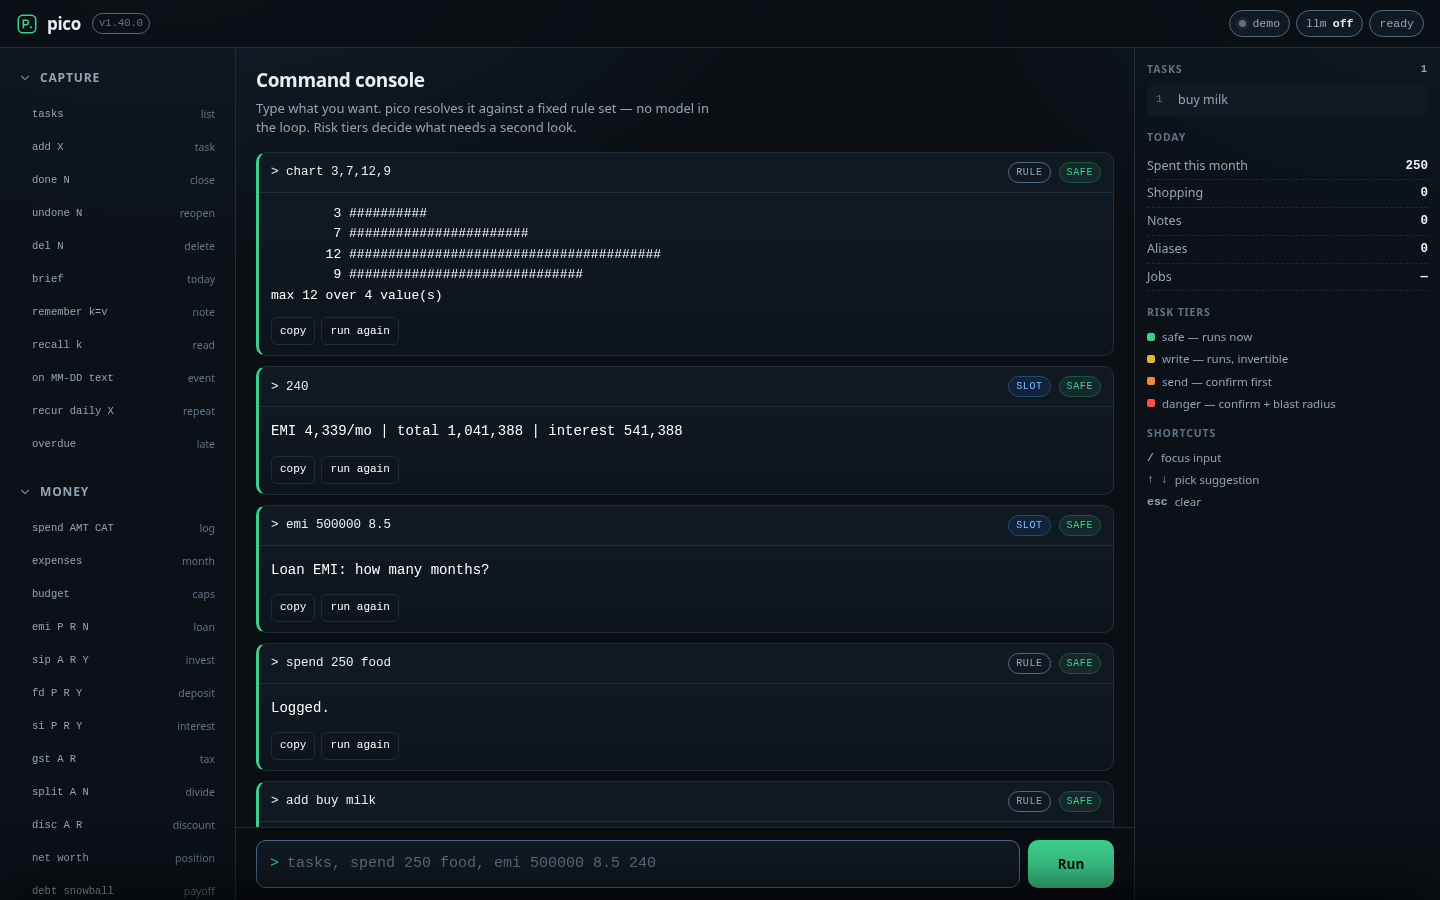
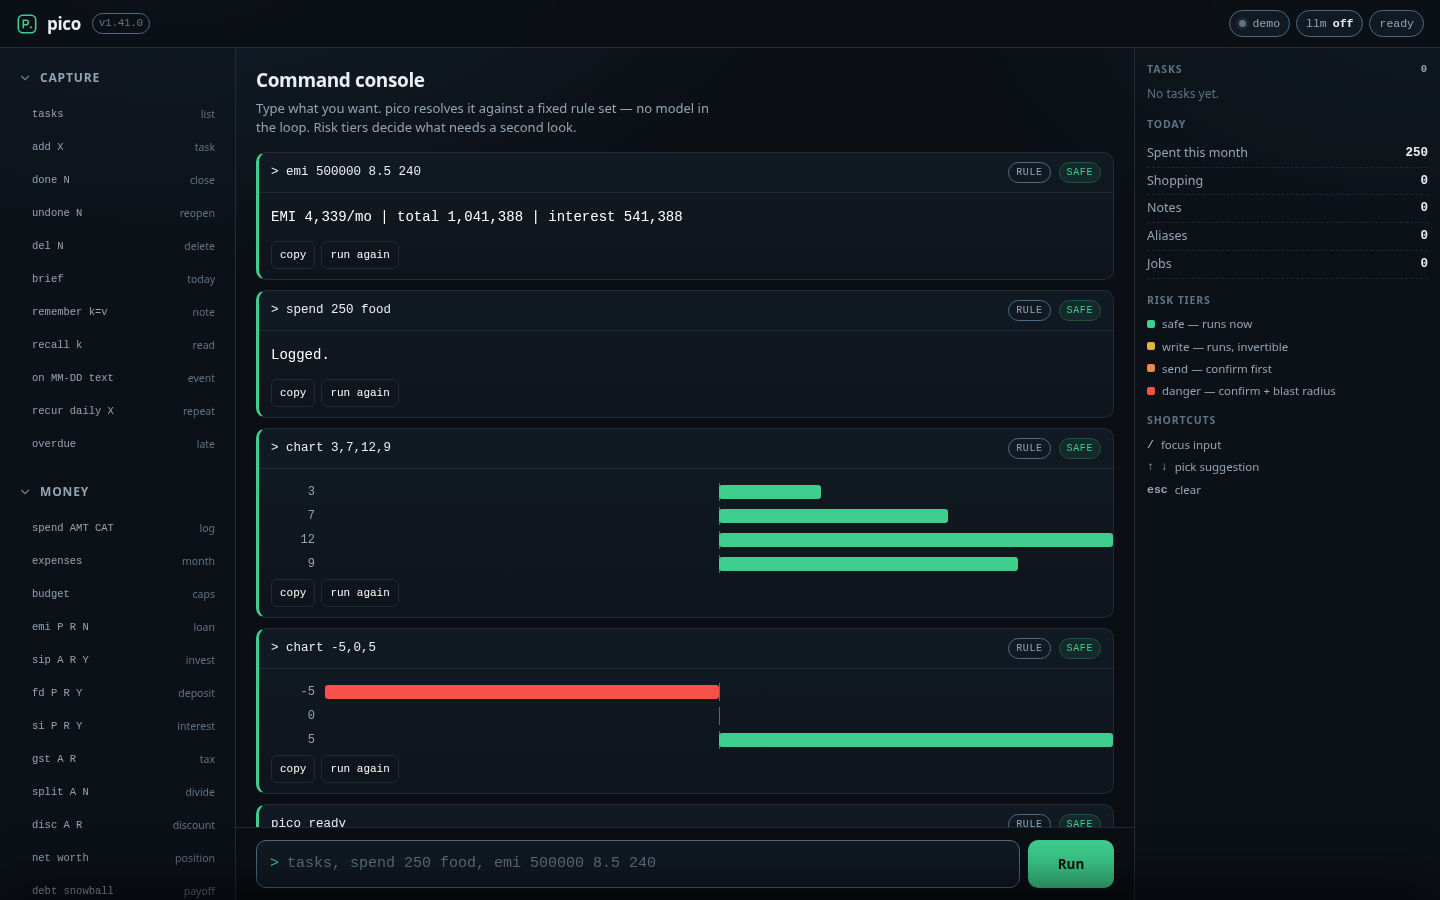
pico 1.42.0 — the console critique: charts, sign, zero, and a fake footer
chart was drawn in hashes, which reads as a rendering bug in a browser and was the
most eye-catching thing on the page. A chart answer now paints as bars; the answer
text is unchanged, so the parity gate compares the same string.

Negatives were distinguished by colour alone: -5 and 5 drew the same length, one red
one green. Bars now grow from a zero axis — sign is a direction, not a colour.

A zero drew a two-pixel bar; it now draws only the axis. The boot message had copy
and 'run again' buttons for a command that was never typed; the footer is gone when
there is no command.

Also: right-rail figures use tabular numerals, and Jobs shows 0 like its neighbours
instead of an em dash.

481 tests unchanged; parity, contrast and asset sync all still pass, which is what a
presentation-only change should look like.

diff --git a/docs/app.html b/docs/app.html
@@ -169,6 +169,16 @@ button{background:none;border:0;cursor:pointer;text-align:left}
 .b-write{color:var(--write);border-color:#5c4a15;background:rgba(227,179,65,.09)}
 .b-send{color:var(--send);border-color:#6b3a15;background:rgba(240,136,62,.1)}
 .b-danger{color:var(--danger);border-color:#6e2a26;background:rgba(248,81,73,.1)}
+.chart{display:flex;flex-direction:column;gap:6px;padding:14px 0 6px}
+.barrow{display:flex;align-items:center;gap:10px}
+.barlabel{font-family:var(--mono);font-size:12px;color:var(--tx2);width:56px;
+  text-align:right;flex:none;font-variant-numeric:tabular-nums}
+.bartrack{position:relative;flex:1;height:14px}
+.bartrack::before{content:"";position:absolute;left:50%;top:-2px;bottom:-2px;width:1px;
+  background:var(--line2)}
+.bar{position:absolute;top:0;height:14px;border-radius:3px;background:var(--acc);
+  min-width:2px}
+.bar.neg{background:var(--danger)}
 .out{font-family:var(--mono);font-size:13px;line-height:1.58;white-space:pre-wrap;word-break:break-word;
   padding:11px 12px;color:var(--tx);max-height:44vh;overflow:auto}
 .out.short{font-size:14px;padding:13px 12px}
@@ -199,7 +209,7 @@ button{background:none;border:0;cursor:pointer;text-align:left}
   padding:5px 8px;border-radius:6px;background:var(--panel);border:1px solid transparent}
 .row.done{opacity:.5;text-decoration:line-through}
 .row .n{color:var(--tx3);font-family:var(--mono);font-size:11px;flex:none;min-width:14px}
-.kv{display:flex;justify-content:space-between;font-size:12.5px;padding:4px 0;color:var(--tx2);
+.kv{font-variant-numeric:tabular-nums;display:flex;justify-content:space-between;font-size:12.5px;padding:4px 0;color:var(--tx2);
   border-bottom:1px dashed rgba(43,61,77,.55)}
 .kv b{color:var(--tx);font-family:var(--mono);font-weight:600}
 .muted{color:var(--tx3);font-size:12px}
@@ -246,7 +256,7 @@ pre,pre *{color:#ffffff!important}
   <header class="top">
     <div class="brand">
       <svg viewBox="0 0 24 24" fill="none" aria-hidden="true"><rect x="2.5" y="2.5" width="19" height="19" rx="5" stroke="#3ecf8e" stroke-width="1.7"/><path d="M8 16V8h3.2a2.4 2.4 0 0 1 0 4.8H8" stroke="#3ecf8e" stroke-width="1.7" stroke-linecap="round"/><circle cx="16.2" cy="15.6" r="1.2" fill="#3ecf8e"/></svg>
-      pico <small id="ver">v1.41.0</small>
+      pico <small id="ver">v1.42.0</small>
     </div>
     <div class="chips">
       <span class="chip"><i class="dot" id="dot"></i><span id="mode">engine</span></span>
@@ -1003,6 +1013,28 @@ const esc=s=>String(s).replace(/[&<>]/g,c=>({"&":"&amp;","<":"&lt;",">":"&gt;"}[
 const stream=$("#stream"), histEl=$("#hist");
 let pendingConfirm=null, pendingChoice=null, history=[];
 
+/* A web console should not draw a bar chart in hashes. The answer text is still
+   produced by the same code and still compared by the parity gate; this only
+   changes how a `chart` answer is painted. */
+function chartBlock(cmd, out){
+  if(!/^chart\s/i.test(cmd||""))return "";
+  const nums=(cmd.match(/-?[\d.]+/g)||[]).map(Number).filter(n=>!isNaN(n));
+  if(nums.length<2||nums.length>40)return "";
+  const top=Math.max(...nums.map(Math.abs))||1;
+  // negatives grow left from a zero axis, so the sign is a direction and not only a
+  // colour — colour alone must never carry meaning
+  const bars=nums.map(n=>{
+    if(n===0)return `<div class="barrow"><span class="barlabel">0</span>`+
+      `<span class="bartrack"></span></div>`;
+    const w=Math.max(2,Math.round(Math.abs(n)/top*50));
+    const left=n<0?`${50-w}%`:"50%";
+    return `<div class="barrow"><span class="barlabel">${esc(String(n))}</span>`+
+           `<span class="bartrack"><span class="bar ${n<0?"neg":""}" `+
+           `style="left:${left};width:${w}%"></span></span></div>`;
+  }).join("");
+  return `<div class="chart">${bars}</div>`;
+}
+
 function render(cmd,src,tier,out,typed){
   const el=document.createElement("article");
   el.className="card"; el.dataset.tier=tier;
@@ -1011,17 +1043,19 @@ function render(cmd,src,tier,out,typed){
       ${src?`<span class="badge b-${esc(src)}">${esc(src)}</span>`:""}
       <span class="badge b-${esc(tier)}">${esc(tier)}</span>
     </div>
-    <pre class="out${out.indexOf("\n")===-1?" short":""}">${esc(out)}</pre>
-    <div class="foot">
+    ${chartBlock(cmd, out)||`<pre class="out${out.indexOf("\n")===-1?" short":""}">${esc(out)}</pre>`}
+    ${cmd?`<div class="foot">
       <button class="mini" data-copy>copy</button>
       <button class="mini" data-again="${esc(cmd)}">run again</button>
       ${tier!=="safe"?`<button class="mini" data-dry="${esc(cmd)}">dry run</button>`:""}
-    </div>`;
+    </div>`:""}`;
   stream.prepend(el);
   while(stream.children.length>25)stream.lastChild.remove();
   history.unshift({cmd:typed||cmd,t:new Date()});
   renderHistory();
-  el.querySelector("[data-copy]").onclick=e=>{
+  const copyBtn=el.querySelector("[data-copy]");
+  if(!copyBtn)return;              // the boot message has no footer
+  copyBtn.onclick=e=>{
     navigator.clipboard.writeText(out).then(()=>{e.target.textContent="copied";
       setTimeout(()=>e.target.textContent="copy",1200);});
   };
@@ -1064,7 +1098,7 @@ function applyState(st){
   $("#pShop").textContent=(st.shop||[]).length;
   $("#pNotes").textContent=(st.notes||[]).length;
   $("#pAlias").textContent=st.aliases||0;
-  $("#pJobs").textContent=(st.jobs||[]).length||"—";
+  $("#pJobs").textContent=(st.jobs||[]).length;
 }
 function renderPanels(){
   applyState({tasks:S.tasks,spend:S.spend,shop:S.shop,notes:Object.keys(S.notes),
@@ -1214,7 +1248,7 @@ document.querySelectorAll(".tabs button").forEach(b=>{
 if(window.innerWidth<760){
   $("#cmd").placeholder="tasks · spend 250 food";
 }
-$("#ver").textContent="v1.41.0";
+$("#ver").textContent="v1.42.0";
 $("#mode").textContent=SERVER?"engine":"demo";
 $("#dot").className=SERVER?"dot":"dot off";
 if(SERVER){

diff --git a/web/index.html b/web/index.html
@@ -169,6 +169,16 @@ button{background:none;border:0;cursor:pointer;text-align:left}
 .b-write{color:var(--write);border-color:#5c4a15;background:rgba(227,179,65,.09)}
 .b-send{color:var(--send);border-color:#6b3a15;background:rgba(240,136,62,.1)}
 .b-danger{color:var(--danger);border-color:#6e2a26;background:rgba(248,81,73,.1)}
+.chart{display:flex;flex-direction:column;gap:6px;padding:14px 0 6px}
+.barrow{display:flex;align-items:center;gap:10px}
+.barlabel{font-family:var(--mono);font-size:12px;color:var(--tx2);width:56px;
+  text-align:right;flex:none;font-variant-numeric:tabular-nums}
+.bartrack{position:relative;flex:1;height:14px}
+.bartrack::before{content:"";position:absolute;left:50%;top:-2px;bottom:-2px;width:1px;
+  background:var(--line2)}
+.bar{position:absolute;top:0;height:14px;border-radius:3px;background:var(--acc);
+  min-width:2px}
+.bar.neg{background:var(--danger)}
 .out{font-family:var(--mono);font-size:13px;line-height:1.58;white-space:pre-wrap;word-break:break-word;
   padding:11px 12px;color:var(--tx);max-height:44vh;overflow:auto}
 .out.short{font-size:14px;padding:13px 12px}
@@ -199,7 +209,7 @@ button{background:none;border:0;cursor:pointer;text-align:left}
   padding:5px 8px;border-radius:6px;background:var(--panel);border:1px solid transparent}
 .row.done{opacity:.5;text-decoration:line-through}
 .row .n{color:var(--tx3);font-family:var(--mono);font-size:11px;flex:none;min-width:14px}
-.kv{display:flex;justify-content:space-between;font-size:12.5px;padding:4px 0;color:var(--tx2);
+.kv{font-variant-numeric:tabular-nums;display:flex;justify-content:space-between;font-size:12.5px;padding:4px 0;color:var(--tx2);
   border-bottom:1px dashed rgba(43,61,77,.55)}
 .kv b{color:var(--tx);font-family:var(--mono);font-weight:600}
 .muted{color:var(--tx3);font-size:12px}
@@ -246,7 +256,7 @@ pre,pre *{color:#ffffff!important}
   <header class="top">
     <div class="brand">
       <svg viewBox="0 0 24 24" fill="none" aria-hidden="true"><rect x="2.5" y="2.5" width="19" height="19" rx="5" stroke="#3ecf8e" stroke-width="1.7"/><path d="M8 16V8h3.2a2.4 2.4 0 0 1 0 4.8H8" stroke="#3ecf8e" stroke-width="1.7" stroke-linecap="round"/><circle cx="16.2" cy="15.6" r="1.2" fill="#3ecf8e"/></svg>
-      pico <small id="ver">v1.41.0</small>
+      pico <small id="ver">v1.42.0</small>
     </div>
     <div class="chips">
       <span class="chip"><i class="dot" id="dot"></i><span id="mode">engine</span></span>
@@ -1003,6 +1013,28 @@ const esc=s=>String(s).replace(/[&<>]/g,c=>({"&":"&amp;","<":"&lt;",">":"&gt;"}[
 const stream=$("#stream"), histEl=$("#hist");
 let pendingConfirm=null, pendingChoice=null, history=[];
 
+/* A web console should not draw a bar chart in hashes. The answer text is still
+   produced by the same code and still compared by the parity gate; this only
+   changes how a `chart` answer is painted. */
+function chartBlock(cmd, out){
+  if(!/^chart\s/i.test(cmd||""))return "";
+  const nums=(cmd.match(/-?[\d.]+/g)||[]).map(Number).filter(n=>!isNaN(n));
+  if(nums.length<2||nums.length>40)return "";
+  const top=Math.max(...nums.map(Math.abs))||1;
+  // negatives grow left from a zero axis, so the sign is a direction and not only a
+  // colour — colour alone must never carry meaning
+  const bars=nums.map(n=>{
+    if(n===0)return `<div class="barrow"><span class="barlabel">0</span>`+
+      `<span class="bartrack"></span></div>`;
+    const w=Math.max(2,Math.round(Math.abs(n)/top*50));
+    const left=n<0?`${50-w}%`:"50%";
+    return `<div class="barrow"><span class="barlabel">${esc(String(n))}</span>`+
+           `<span class="bartrack"><span class="bar ${n<0?"neg":""}" `+
+           `style="left:${left};width:${w}%"></span></span></div>`;
+  }).join("");
+  return `<div class="chart">${bars}</div>`;
+}
+
 function render(cmd,src,tier,out,typed){
   const el=document.createElement("article");
   el.className="card"; el.dataset.tier=tier;
@@ -1011,17 +1043,19 @@ function render(cmd,src,tier,out,typed){
       ${src?`<span class="badge b-${esc(src)}">${esc(src)}</span>`:""}
       <span class="badge b-${esc(tier)}">${esc(tier)}</span>
     </div>
-    <pre class="out${out.indexOf("\n")===-1?" short":""}">${esc(out)}</pre>
-    <div class="foot">
+    ${chartBlock(cmd, out)||`<pre class="out${out.indexOf("\n")===-1?" short":""}">${esc(out)}</pre>`}
+    ${cmd?`<div class="foot">
       <button class="mini" data-copy>copy</button>
       <button class="mini" data-again="${esc(cmd)}">run again</button>
       ${tier!=="safe"?`<button class="mini" data-dry="${esc(cmd)}">dry run</button>`:""}
-    </div>`;
+    </div>`:""}`;
   stream.prepend(el);
   while(stream.children.length>25)stream.lastChild.remove();
   history.unshift({cmd:typed||cmd,t:new Date()});
   renderHistory();
-  el.querySelector("[data-copy]").onclick=e=>{
+  const copyBtn=el.querySelector("[data-copy]");
+  if(!copyBtn)return;              // the boot message has no footer
+  copyBtn.onclick=e=>{
     navigator.clipboard.writeText(out).then(()=>{e.target.textContent="copied";
       setTimeout(()=>e.target.textContent="copy",1200);});
   };
@@ -1064,7 +1098,7 @@ function applyState(st){
   $("#pShop").textContent=(st.shop||[]).length;
   $("#pNotes").textContent=(st.notes||[]).length;
   $("#pAlias").textContent=st.aliases||0;
-  $("#pJobs").textContent=(st.jobs||[]).length||"—";
+  $("#pJobs").textContent=(st.jobs||[]).length;
 }
 function renderPanels(){
   applyState({tasks:S.tasks,spend:S.spend,shop:S.shop,notes:Object.keys(S.notes),
@@ -1214,7 +1248,7 @@ document.querySelectorAll(".tabs button").forEach(b=>{
 if(window.innerWidth<760){
   $("#cmd").placeholder="tasks · spend 250 food";
 }
-$("#ver").textContent="v1.41.0";
+$("#ver").textContent="v1.42.0";
 $("#mode").textContent=SERVER?"engine":"demo";
 $("#dot").className=SERVER?"dot":"dot off";
 if(SERVER){

diff --git a/docs/index.html b/docs/index.html
@@ -139,7 +139,7 @@ pre,pre *{color:#ffffff!important}
     <img src="assets/badge-tests.svg" alt="tests: 481 passed">
     <img src="assets/badge-deps.svg" alt="dependencies: zero">
     <img src="assets/badge-offline.svg" alt="no network at runtime">
-    <img src="assets/badge-version.svg" alt="version 1.41.0">
+    <img src="assets/badge-version.svg" alt="version 1.42.0">
   </div>
 
   <div class="cta">
@@ -264,7 +264,7 @@ pre,pre *{color:#ffffff!important}
       <tr><td>rules / catalogue / slots</td><td>106 / 110 / 6</td></tr>
       <tr><td>packs</td><td>12</td></tr>
       <tr><td>python source</td><td>171,894 bytes across 29 files</td></tr>
-      <tr><td>console</td><td>70,278 bytes, one HTML file</td></tr>
+      <tr><td>console</td><td>72,112 bytes, one HTML file</td></tr>
       <tr><td>rule-path latency</td><td>0.45 ms read and 1.7 ms write when empty; 1.45 / 9.5 ms at 5,000 tasks</td></tr>
       <tr><td>engine heap</td><td>0.1 MB</td></tr>
       <tr><td>acceptance tests</td><td>481 passing</td></tr>
@@ -361,7 +361,7 @@ python3 ~/pico.py --ui   <span class="c"># local console on 127.0.0.1:8765</span
 </div></section>
 
 <footer><div class="wrap">
-  <span>pico 1.41.0</span>
+  <span>pico 1.42.0</span>
   <span>·</span>
   <a href="app.html">Console</a>
   <a href="https://github.com/drsamonline/pico">Source</a>

diff --git a/docs/sw.js b/docs/sw.js
@@ -1,5 +1,5 @@
 /* pico service worker — cache the shell so the console opens offline. */
-const CACHE = "pico-1.41.0";
+const CACHE = "pico-1.42.0";
 const SHELL = ["./app.html", "./manifest.webmanifest", "./icon-192.png", "./icon-512.png"];
 
 self.addEventListener("install", e => {

diff --git a/web/sw.js b/web/sw.js
@@ -1,5 +1,5 @@
 /* pico service worker — cache the shell so the console opens offline. */
-const CACHE = "pico-1.41.0";
+const CACHE = "pico-1.42.0";
 const SHELL = ["./app.html", "./manifest.webmanifest", "./icon-192.png", "./icon-512.png"];
 
 self.addEventListener("install", e => {

diff --git a/pico/base.py b/pico/base.py
@@ -1,7 +1,7 @@
 """pico base — constants and pure helpers shared by every module."""
 import ast, operator, pathlib, re, sys
 
-__version__ = "1.41.0"
+__version__ = "1.42.0"
 
 
 STATE_DEFAULT = {

diff --git a/README.md b/README.md
@@ -6,7 +6,7 @@
   <img alt="tests: 481 passed" src="docs/assets/badge-tests.svg">
   <img alt="dependencies: zero" src="docs/assets/badge-deps.svg">
   <img alt="no network at runtime" src="docs/assets/badge-offline.svg">
-  <img alt="version 1.41.0" src="docs/assets/badge-version.svg">
+  <img alt="version 1.42.0" src="docs/assets/badge-version.svg">
 </p>
 
 **A personal automation engine that runs on the Python standard library alone.**
@@ -98,8 +98,8 @@ Full reference with argument shapes: [`docs/COMMANDS.md`](docs/COMMANDS.md).
 | rules / catalogue / slot rules | 114 / 122 / 6 |
 | packs | 12 |
 | python source | 171,894 bytes across 29 files |
-| package / packs / console | 94,234 / 77,660 / 70,278 B |
-| console | 70,278 bytes, one HTML file, no external assets |
+| package / packs / console | 94,234 / 77,660 / 72,112 B |
+| console | 72,112 bytes, one HTML file, no external assets |
 | rule-path latency (read) | 0.45 ms/call empty, 0.88 ms at 1,200 tasks |
 | rule-path latency (write) | 1.7 ms empty, 2.3 ms at 1,200 tasks |
 | engine heap | 0.1 MB |
@@ -146,7 +146,7 @@ decision.
 | --- | --- | --- | --- |
 | package (`pico/` + launcher, 18 files) | 94,234 B | 103,657 B | 94,234 B |
 | packs (12 files) | 77,660 B | 85,426 B | 77,660 B |
-| console (one HTML file) | 70,278 B | 77,305 B | 70,278 B |
+| console (one HTML file) | 72,112 B | 79,323 B | 72,112 B |
 | rule-path latency | — | 5 ms | 0.45 ms read, 1.7 ms write empty |
 | idle heap | — | 15 MB | 0.1 MB |
 | dependencies | — | 0 | 0 |

diff --git a/PROJECT_OVERVIEW.md b/PROJECT_OVERVIEW.md
@@ -52,7 +52,7 @@ network call at runtime except the one you ask for.
 | rules | 106 |
 | packs | 12 |
 | python source | 171,894 bytes, 29 files |
-| console | 70,278 bytes, one HTML file |
+| console | 72,112 bytes, one HTML file |
 | read latency | 0.71 ms/call |
 | write latency | 4.03 ms/call |
 | engine heap | 0.1 MB |
